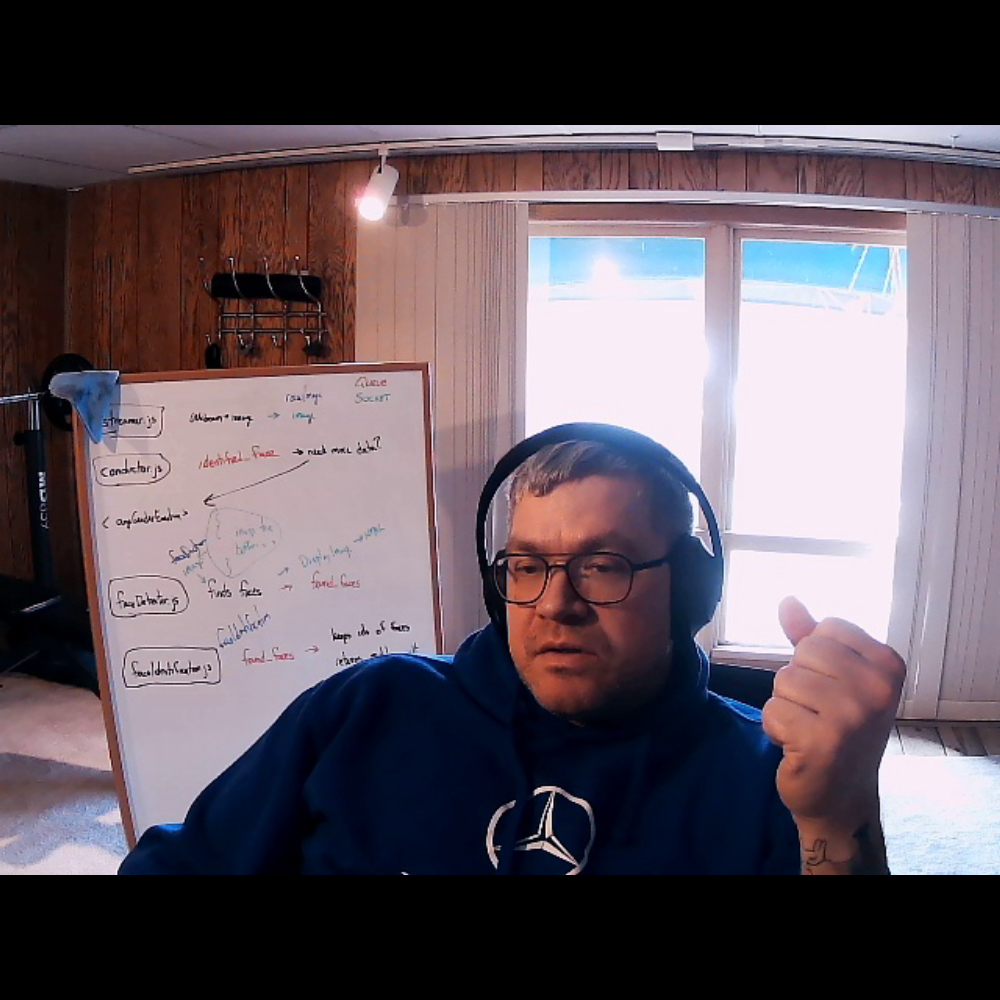
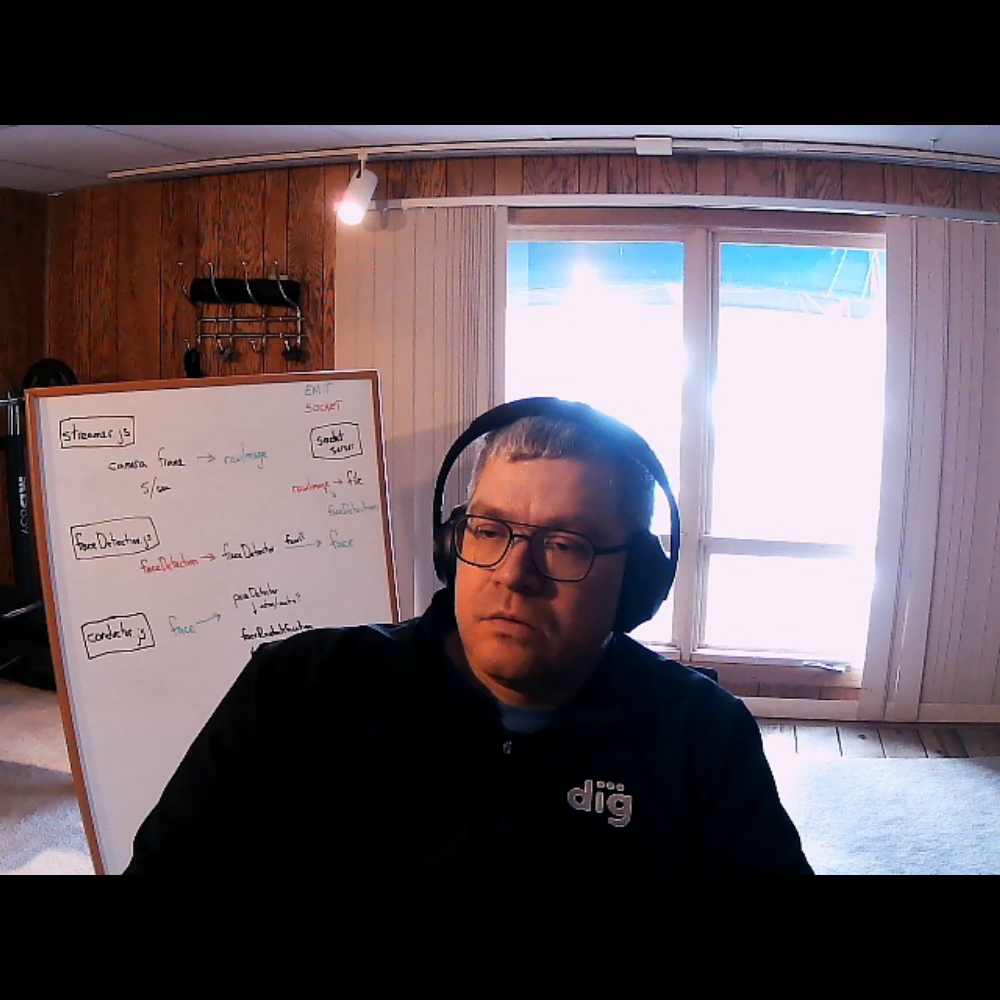
started adding conductor setup

diff --git a/app/inference/faceIdentification.js b/app/inference/faceIdentification.js
@@ -25,9 +25,9 @@ var core_identity,
 var identities = [];
 
 
-async function identificationEngine(device_name) {
+async function identificationEngine(device_name, model) {
 	core_identity = new Core();
-	model_identity = '/home/joe/Source/models/face-reidentification-retail-0095/FP32/face-reidentification-retail-0095.xml';
+	model_identity = model;
 	bin_path_identity = binPathFromXML(model_identity);
 	net_identity = await core_identity.readNetwork(model_identity, bin_path_identity);
 	inputs_info_identity = net_identity.getInputsInfo();
@@ -43,28 +43,36 @@ async function identificationEngine(device_name) {
 }
 
 
-async function getFacialIdentification(img) {
+async function getFacialIdentification(img, pitch, currentPeople) {
+
   var results = [];
 
   var resultsObj = {
     vect: identities
   };
 
-  const image = img.img;
-  const agImage = await jimp.read({ data: Buffer.from(image.bitmap.data.data), width: image.bitmap.width, height: image.bitmap.height });
+  const image = img;
 
   const input_dims_identity = input_info_identity.getDims();
   const input_h_identity = input_dims_identity[2];
   const input_w_identity = input_dims_identity[3];
 
-  if (agImage.bitmap.height !== input_h_identity &&
-    agImage.bitmap.width !== input_w_identity) {
-    agImage.contain(input_w_identity, input_h_identity);
+  if (image.bitmap.height !== input_h_identity && image.bitmap.width !== input_w_identity) {
+    image.contain(input_w_identity, input_h_identity);
+    image.rotate(pitch);
   }
 
   let infer_req_identity;
   infer_req_identity = exec_net_identity.createInferRequest();
   const input_blob_identity = infer_req_identity.getBlob(input_info_identity.name());
+  const input_data_identity = new Uint8Array(input_blob_identity.wmap());
+
+  image.scan(0, 0, image.bitmap.width, image.bitmap.height, function (x, y, hdx) {
+    let h = Math.floor(hdx / 4) * 3;
+    input_data_identity[h + 2] = image.bitmap.data[hdx + 0];  // R
+    input_data_identity[h + 1] = image.bitmap.data[hdx + 1];  // G
+    input_data_identity[h + 0] = image.bitmap.data[hdx + 2];  // B
+  });
 
   const preProcessInfo = input_info_identity.getPreProcess();
   preProcessInfo.init(3);
@@ -80,42 +88,41 @@ async function getFacialIdentification(img) {
   let returnResults = {
     identified: false,
     confidence: 0,
-    image: agImage
+    image: image
   };
 
+  console.log('face count: ' + currentPeople.length);
   results = Array.from(output_data_identity);
-  if (identities.length > 0) {
-    console.log('face count: ' + identities.length)
-    for (var i = 0; i < identities.length; i++) {
-      const newArray = Array.from(identities[i]); //.split(',');
+  if (currentPeople.length > 0) {
+    console.log('face count: ' + currentPeople.length);
+    let matchValue = 0;
+    let matchIndex = null;
+
+    for (var i = 0; i < currentPeople.length; i++) {
+      const newArray = Array.from(currentPeople[i].facialRecMatrix); //.split(',');
 
       var simout = parseFloat(similarity( results, newArray ));
-      if (simout > 0.6) {
-        returnResults.identified = true;
-        returnResults.confidence = simout;
-      } else {
-        identities.push(results);
-        returnResults.confidence = simout;
+      if (simout > matchValue) {
+        matchValue = simout;
+        matchIndex = i;
       }
     }
+
+    if (matchValue > 0.6) {
+      returnResults.identified = true;
+      returnResults.confidence = matchValue;
+      returnResults.index = matchIndex;
+    } else {
+      returnResults.identified = false;
+      returnResults.confidence = matchValue;
+      returnResults.newFaceData = results;
+    }
   } else {
-    identities.push(results);
+    returnResults.identified = false;
+    returnResults.newFaceData = results;
   }
 
   return returnResults;
 }
 
 module.exports = { getFacialIdentification, identificationEngine };
-
-// const bull = require('bull');
-// const queue = new bull("found_faces", 'redis://192.168.86.24');
-
-// queue.process(async (job, done) => {
-//   await identificationEngine('CPU');
-//   console.log(job);
-//   if (job.data) {
-//     const results = await getFacialIdentification(job.data.face);
-//     console.log(results);
-//   }
-//   done();
-// });

diff --git a/app/conductor.js b/app/conductor.js
@@ -5,10 +5,16 @@
 // const { Server } = require("socket.io");
 // const express = require("express");
 // const util = require('util');
-// const jimp = require('jimp');
+const jimp = require('jimp');
+const uuid = require('uuid');
+const fs = require('fs');
 // const { Core, getVersion } = require('inference-engine-node');
 // const cv = require('opencv4nodejs');
-const { detectFaces, faceEngine } = require('./inference/faceDetector.js');
+// const { detectFaces, faceEngine } = require('./inference/faceDetector.js');
+
+const { detectPose, poseDetectorEngine } = require('./inference/poseDetector.js');
+const { facialLandmarksEngine } = require('./inference/faceLandmarks.js');
+const { getFacialIdentification, identificationEngine } = require('./inference/faceIdentification.js');
 
 // const app = express();
 // app.use(express.static('public'))
@@ -22,47 +28,70 @@ const device = "CPU";
 
 let processing = false;
 
+var allCurrentPeople = [];
+
 async function main(image) {
   processing = true;
-  
-  
-  var test = await detectFaces(image);
-  
-  test.results.forEach((res) => {
-    res.img.write('../outputs/little.jpg');
-  });
 
-  test.img.write('../outputs/big.jpg');
+  var jimpImage = await jimp.read(image.img.bitmap).then((img) => {
+    return img;
+  });
+ 
+  // is this user active or passive?
+  // using just yaw right now.  Basically if the face is from -20 to 20 degrees it is in the direction of the camera and is therefore active
+  var pose = await detectPose(jimpImage);
+
+  // array of identified people matrices
+  // model of items in allCurrentPeople
+  // {
+  //   id: guid
+  //   activeUser: boolean
+  //   timeActiveStart: date
+  //   timeActiveEnd: date
+  //   facialRecMatrix: result from getFacialIdentification, used to match future images
+  //   gender { result, confidence }
+  //   age { result, confidence }
+  //   emotion? { result, confidence }
+  // }
+
+  let currentPerson = {};
+
+  console.log('all people now: ' + allCurrentPeople.length);
+
+  // try to identify the face to see if it is a new or old user
+  var facialRec = await getFacialIdentification(jimpImage, pose.pitch, allCurrentPeople);
   
-  const rects = await test.img.getBase64Async("image/jpeg");
-  io.emit('rects', {image: true, data: rects, faces: {test: 'nothing yet'}});
+  console.log(facialRec.confidence);
+  console.log(facialRec.index);
+  if (facialRec.identified) {
+    currentPerson = allCurrentPeople[facialRec.index];
+  } else {
+    currentPerson.id = uuid.v4();
+    currentPerson.facialRecMatrix = facialRec.newFaceData;
+
+    
+
+
+    allCurrentPeople.push(currentPerson);
+    fs.writeFileSync('./outputs/people.csv', JSON.stringify(currentPerson), { flag: 'a+'});
+  }
+
+  jimpImage.write(`./outputs/identity-${currentPerson.id}.jpg`);
+  
   processing = false;
 };
 
-socketPub.on('image2', (data) => {
-  console.log(data);
+socketPub.on('face', (data) => {
   if(data.image && !processing && initialized) {
-    socket.emit('faceDetection', { data: data });
     main(data.buffer).then(() => {processing = false}).catch();
   }
 });
-// io.on('connection', (socket) => {
-//   socket.on('image', (data) => {
-//     if(data.image && !processing && initialized) {
-//       socket.emit('faceDetection', { data: data });
-//       main(data.buffer).then(() => {processing = false}).catch();
-//     }
-//   });
-//   socket.on('faceDetection', (data) => {
-//     if(data) {
-//     }
-//   });
-// });
 
 let initialized = false;
-
 (async () => {
-  await faceEngine(device, '/home/joe/Source/models/face-detection-retail-0004/FP32/face-detection-retail-0004.xml');
+  await poseDetectorEngine(device, '/home/joe/Source/models/head-pose-estimation-adas-0001/FP32/head-pose-estimation-adas-0001.xml');
+  await facialLandmarksEngine(device, '/home/joe/Source/models/landmarks-regression-retail-0009/FP32/landmarks-regression-retail-0009.xml');
+  await identificationEngine(device, '/home/joe/Source/models/face-reidentification-retail-0095/FP32/face-reidentification-retail-0095.xml');
   initialized = true;
 })();
 // httpServer.listen(3030);

diff --git a/app/faceDetection.js b/app/faceDetection.js
@@ -3,10 +3,11 @@
 // -- then reidentifies based on previous users
 
 const { detectFaces, faceEngine } = require('./inference/faceDetector.js');
-const { detectPose, poseDetectorEngine } = require('./inference/poseDetector.js');
-const { getFacialLandmarks, facialLandmarksEngine } = require('./inference/faceLandmarks.js');
 
 var io = require('socket.io-client')('ws://127.0.0.1:3333');
+
+const jimp = require('jimp');
+const uuid = require('uuid');
 
 const device = 'CPU';
 
@@ -20,24 +21,42 @@ io.on('disconnect', () => {
 
 io.on('faceDetection', async (data) => {
     if (initialized) {
+
+        // could somewhere in here return an image to the html in order to speed this up a bit
+
+        // detect the faces in the frame
         var faces = await detectFaces(data.buffer);
         if (faces.results.length > 0) {
-            console.clear();
-            console.log('i found a face, at least one');
-
             for (var i = 0; i < faces.results.length; i++) {
+                // emit face for conductor class
+                io.emit('face', { image: true, buffer: faces.results[i] });
                 // is this user active or passive?
-                var pose = await detectPose(faces.results[i]);
-                if (Math.abs(pose.yaw) <= 20) {
-                    // active user
-                    console.log('active user');
-                } else {
-                    console.log('inactive user');
-                }
+                // using just yaw right now.  Basically if the face is from -20 to 20 degrees it is in the direction of the camera and is therefore active
+                // var pose = await detectPose(faces.results[i]);
+                // if (Math.abs(pose.yaw) <= 20) {
+                //     // active user
+                //     console.log('active user');
+                // } else {
+                //     console.log('inactive user');
+                // }
 
+                // // try to identify the face to see if it is a new or old user
+                // var test = await getFacialIdentification(faces.results[i], pose.pitch);
+                // // console.clear();
+                // if (!test.identified) {
+                //     const image_path = Buffer.from(data.buffer,'base64');
+                //     var image = await jimp.read(image_path).then(image2 => {
+                //         image2.contain(1000,1000);
+                //         image2.write(`../outputs/identity-${uuid.v4()}.jpg`);
+                //         return image2
+                //       }).catch(err => {
+                //         console.error(err);
+                //       });
+                // }
+                // console.log(test);
                 // send each face to be re-identified if possible
-                var landmarks = await getFacialLandmarks(faces.results[i]);
-                console.log(landmarks);
+                // var landmarks = await getFacialLandmarks(faces.results[i]);
+                // console.log(landmarks);
             }
             
 
@@ -49,8 +68,6 @@ io.on('faceDetection', async (data) => {
 let initialized = false;
 (async () => {
     await faceEngine(device, '/home/joe/Source/models/face-detection-retail-0004/FP32/face-detection-retail-0004.xml');
-    await poseDetectorEngine(device, '/home/joe/Source/models/head-pose-estimation-adas-0001/FP32/head-pose-estimation-adas-0001.xml');
-    await facialLandmarksEngine(device, '/home/joe/Source/models/landmarks-regression-retail-0009/FP32/landmarks-regression-retail-0009.xml');
     initialized = true;
 })();
 

diff --git a/tester3.js b/tester3.js
@@ -232,30 +232,6 @@ async function main() {
   console.log(`Start to read image from ${image_path}.`);
   const image = await jimp.read(image_path);
 
-
-
-
-  // let faces = [];
-  // fs.readFile(image_path).then(async (file) => {
-
-  //   const faceNum = await faceD(file);
-  //   if (faceNum.results.length > 0) {
-  //     console.log('faces found');
-  //     for (var i=0; i < faceNum.results.length; i++) {
-  //       var pose = await headposeR(faceNum.results[i]);
-  //       console.log('***** pose *******');
-  //       console.log(pose);
-
-
-  //     }
-  //   }
-  // });
-
-
-
-
-
-
   console.log(`Succeeded.`);
 
   const input_dims = input_info.getDims();

diff --git a/app/inference/poseDetector.js b/app/inference/poseDetector.js
@@ -39,12 +39,11 @@ async function poseDetectorEngine(device_name, model) {
 
 async function detectPose(img) {
 
-  const image = img.img;
   const input_h_headpose = input_dims_headpose[2];
   const input_w_headpose = input_dims_headpose[3];
 
   // MAKE A COPY OF THE FACE IMAGE TO SCALE
-  let agImage = image;
+  let agImage = img;
 
   if (agImage.bitmap.height !== input_h_headpose && agImage.bitmap.width !== input_w_headpose) {
     agImage.resize(input_w_headpose, input_h_headpose, "bilinearInterpolation");

diff --git a/socketServer.js b/socketServer.js
@@ -39,4 +39,12 @@ io.on('connect', function(socket) {
 
         socket.broadcast.emit('faceDetection', data);
     });
+
+    socket.on('face', function(data) {
+      socket.broadcast.emit('face', data);
+    });
+});
+
+io.on('disconnect', function(socket) {
+  console.log('client disconnected');
 });
